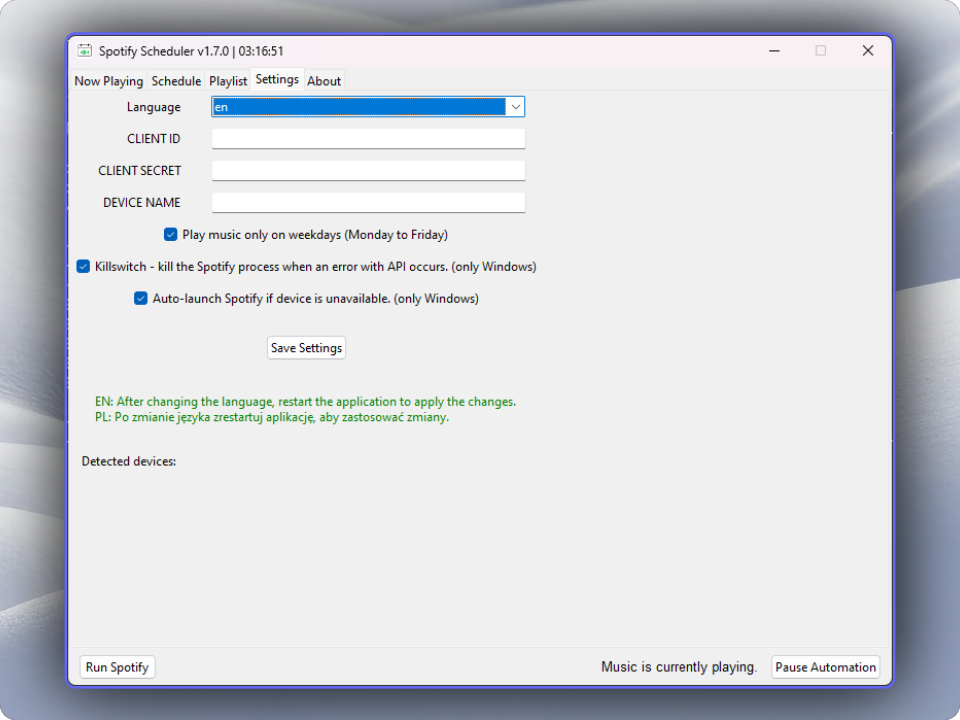
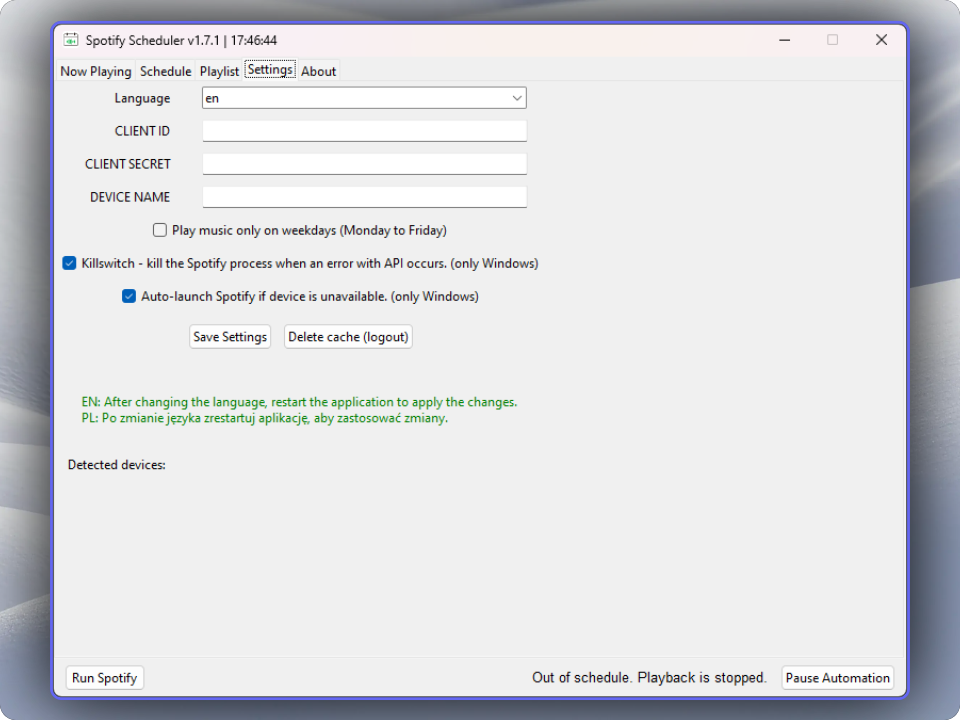
change default settings

Changed region(s): [[0.0, 0.0, 1.0, 1.0], [0.1875, 0.4583, 0.4375, 0.4889]]

diff --git a/main.py b/main.py
@@ -20,7 +20,7 @@ from spotipy_anon import SpotifyAnon
 import logging
 
 print(f"! MIT License - © 2024 Szymon Andrzejewski (https://github.com/sandrzejewskipl/spotify-scheduler/blob/main/LICENSE) !\n")
-version="1.7.0"
+version="1.7.1"
 config_file="config.json"
 schedule_file="schedule.txt"
 default_schedule_file='default-schedule.txt'
@@ -72,9 +72,9 @@ def load_config():
             "CLIENT_ID": "",
             "CLIENT_SECRET": "",
             "DEVICE_NAME": "",
-            "KILLSWITCH_ON": False,
+            "KILLSWITCH_ON": True,
             "WEEKDAYS_ONLY": False,
-            "AUTO_SPOTIFY": False
+            "AUTO_SPOTIFY": True
         }
         try:
             config["DEVICE_NAME"] = platform.node()
@@ -83,11 +83,11 @@ def load_config():
     for key in required_keys:
         if key not in config:
             if key == "KILLSWITCH_ON":
-                config[key] = False 
+                config[key] = True 
             elif key == "WEEKDAYS_ONLY":
                 config[key] = False
             elif key == "AUTO_SPOTIFY":
-                config[key] = False
+                config[key] = True
             else:
                 config[key] = "" 
             timestamped_print(f"Missing key '{key}' set to default value.")

diff --git a/README.md b/README.md
@@ -71,9 +71,9 @@ On the first run, you will be asked for CLIENT_ID and CLIENT_SECRET from Spotify
 
 <b>Play music only on weekdays</b> - Music will only be played from Monday to Friday. <b>Default: </b>Off
 
-<b>Killswitch</b> - feature that kills the Spotify process(es) when an error with API occurs when pausing the playback. It prevents playing music out of schedule. (only on Windows) <b>Default: </b>Off
+<b>Killswitch</b> - feature that kills the Spotify process(es) when an error with API occurs when pausing the playback. It prevents playing music out of schedule. (only on Windows) <b>Default: </b>On
 
-<b>Auto-lunch spotify</b> - feature that automatically launches Spotify if the device is not detected on the devices list. (only on Windows) <b>Default: </b>Off
+<b>Auto-lunch spotify</b> - feature that automatically launches Spotify if the device is not detected on the devices list. (only on Windows) <b>Default: </b>On
 
 
 ### After changing the language, run the script again.
